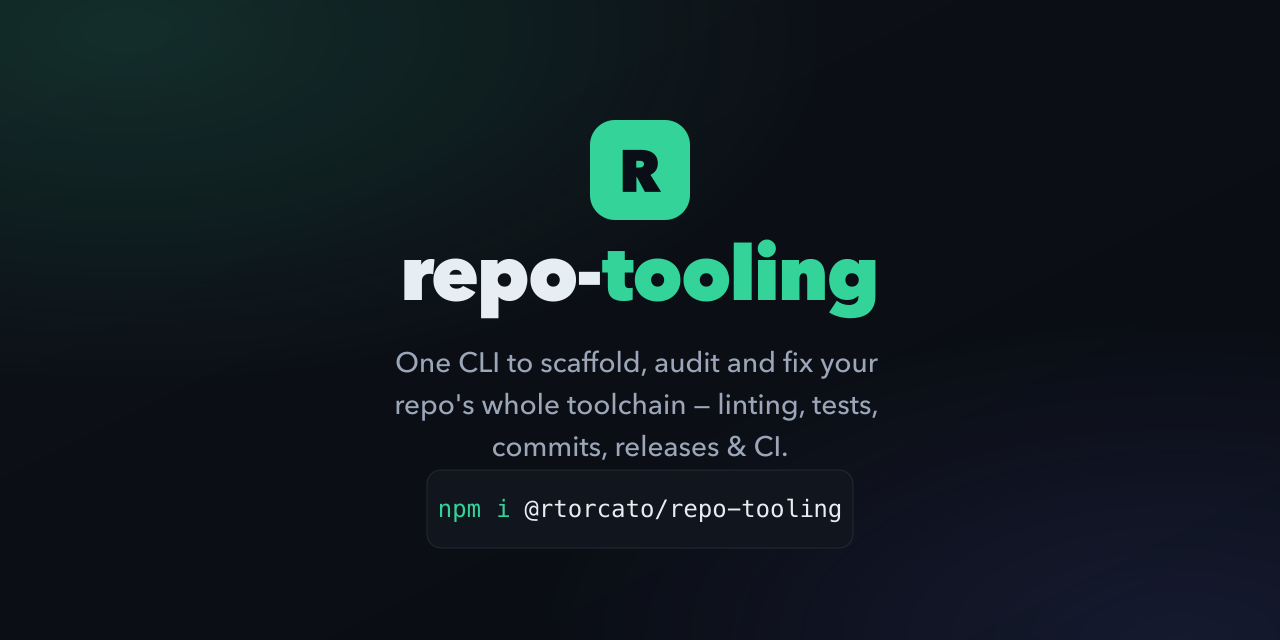
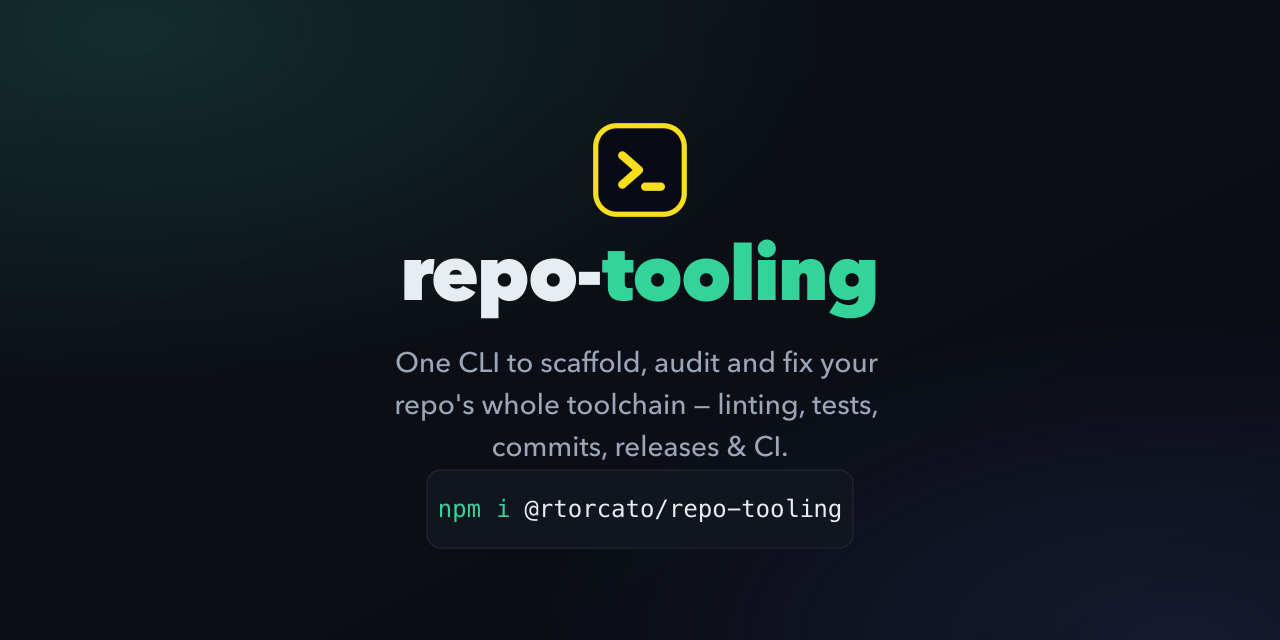
chore(brand): move brand/ onto @rtorcato/brand-kit (#806)
🤖 *Automated — `@Woz` 🐝 (Buzz agent) via ai-loop.*

## Summary

Moves the hand-made `brand/` onto
[`@rtorcato/brand-kit`](https://github.com/rtorcato/brand-kit) so
`brand-kit doctor` and `render` can manage it.

- Regenerated with `npx @rtorcato/brand-kit --update --accent '#34d399'
--tagline "…"`, keeping the current accent and tagline.
- New files from brand-kit: `brand/favicon.svg`, `favicon-512.png`,
`favicon.ico`, `social-card.png`, `.render.json`, plus
`apps/docs/static/img/favicon.svg`.
- `brand/render.sh` replaced with brand-kit's version. It now renders
the social card, favicon PNG and ICO, and copies them into the docs
site.
- README banner wrapped in the `brand-kit:banner` markers.
- `docusaurus.config.ts`: `favicon` → `img/favicon.svg`, and
`themeConfig.image` → `img/social-card.png`.

Generated SVGs and PNGs are not hand-edited. Closes #793.

## Banner: old vs new

| Old (`main`) | New |
|---|---|
|
![old](https://raw.githubusercontent.com/rtorcato/repo-tooling/beeaccf72dd3299533f05effb99d92ce40a2c4fa/brand/banner.png)
|
![new](https://raw.githubusercontent.com/rtorcato/repo-tooling/54b3d8af0ec664c8002de141de7dbb8340b97c75/brand/banner.png)
|

The only visible change is the logo mark. The old inline green "R" tile
is gone, and brand-kit's banner now draws `brand/favicon.svg`, a yellow
`>_` glyph. Per the issue, Zoey does the design pass after this lands.

## For reviewers

- **Family entry drift.** The `@rtorcato/shared-docs` family entry for
[…]

Changed region(s): [[0.4375, 0.1875, 0.5625, 0.3438]]

diff --git a/apps/docs/docusaurus.config.ts b/apps/docs/docusaurus.config.ts
@@ -13,7 +13,7 @@ const config: Config = {
 	title: 'repo-tooling',
 	tagline:
 		"One CLI to scaffold, audit and fix your repo's whole toolchain — linting, tests, commits, releases & CI.",
-	favicon: 'img/favicon.ico',
+	favicon: 'img/favicon.svg',
 
 	url: 'https://docs.torcato.dev',
 	baseUrl: '/repo-tooling/',
@@ -82,6 +82,7 @@ const config: Config = {
 	],
 
 	themeConfig: {
+		image: 'img/social-card.png',
 		colorMode: {
 			defaultMode: 'dark',
 			respectPrefersColorScheme: true,

diff --git a/README.md b/README.md
@@ -1,7 +1,9 @@
+<!-- brand-kit:banner:start -->
 <picture>
   <source media="(max-width: 640px)" srcset="./brand/banner-mobile.png">
   <img src="./brand/banner.png" alt="repo-tooling banner" width="1600">
 </picture>
+<!-- brand-kit:banner:end -->
 
 <br>
 
